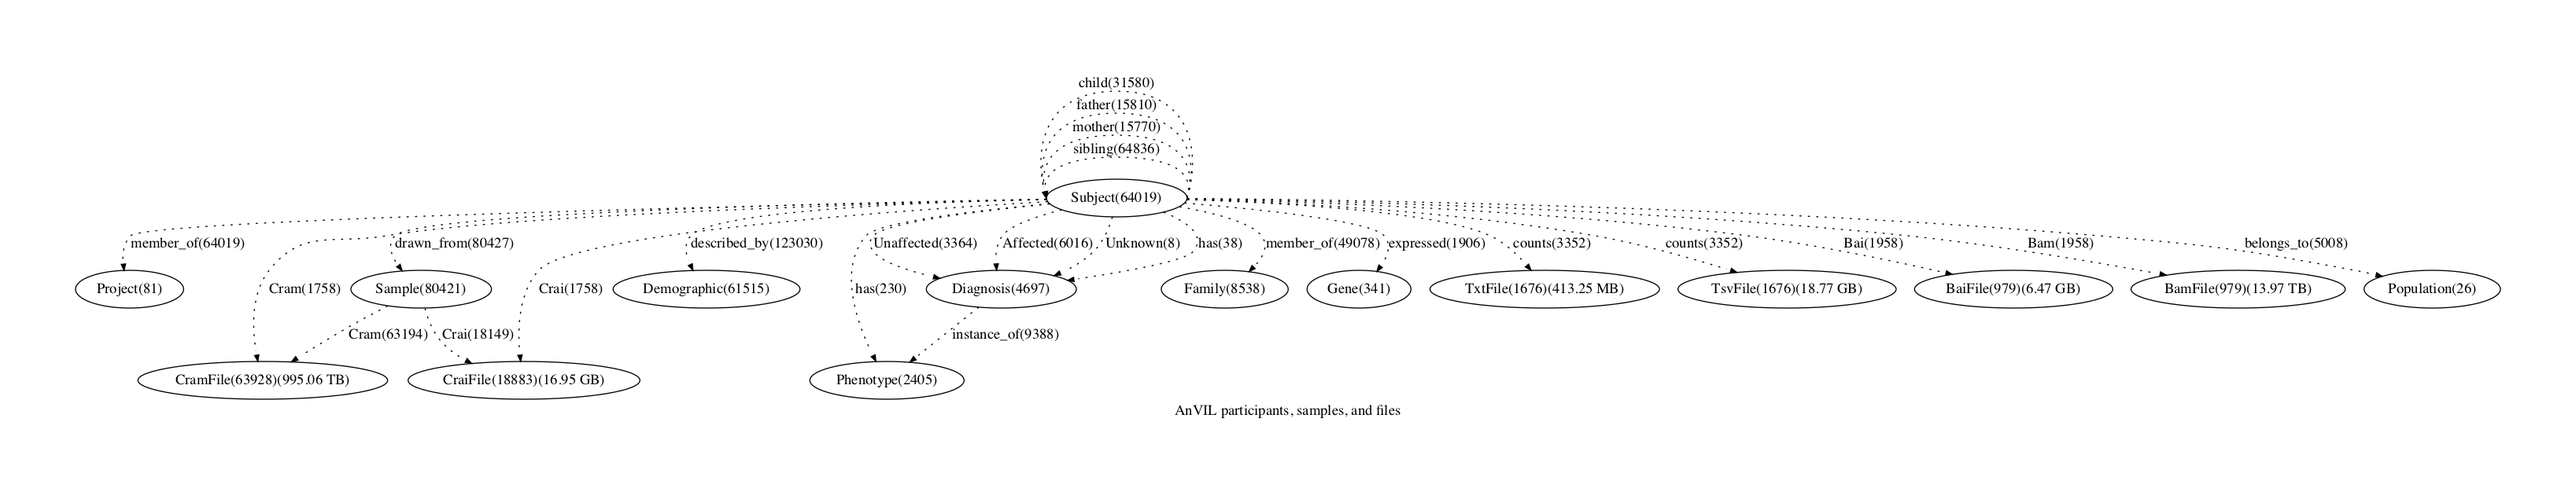
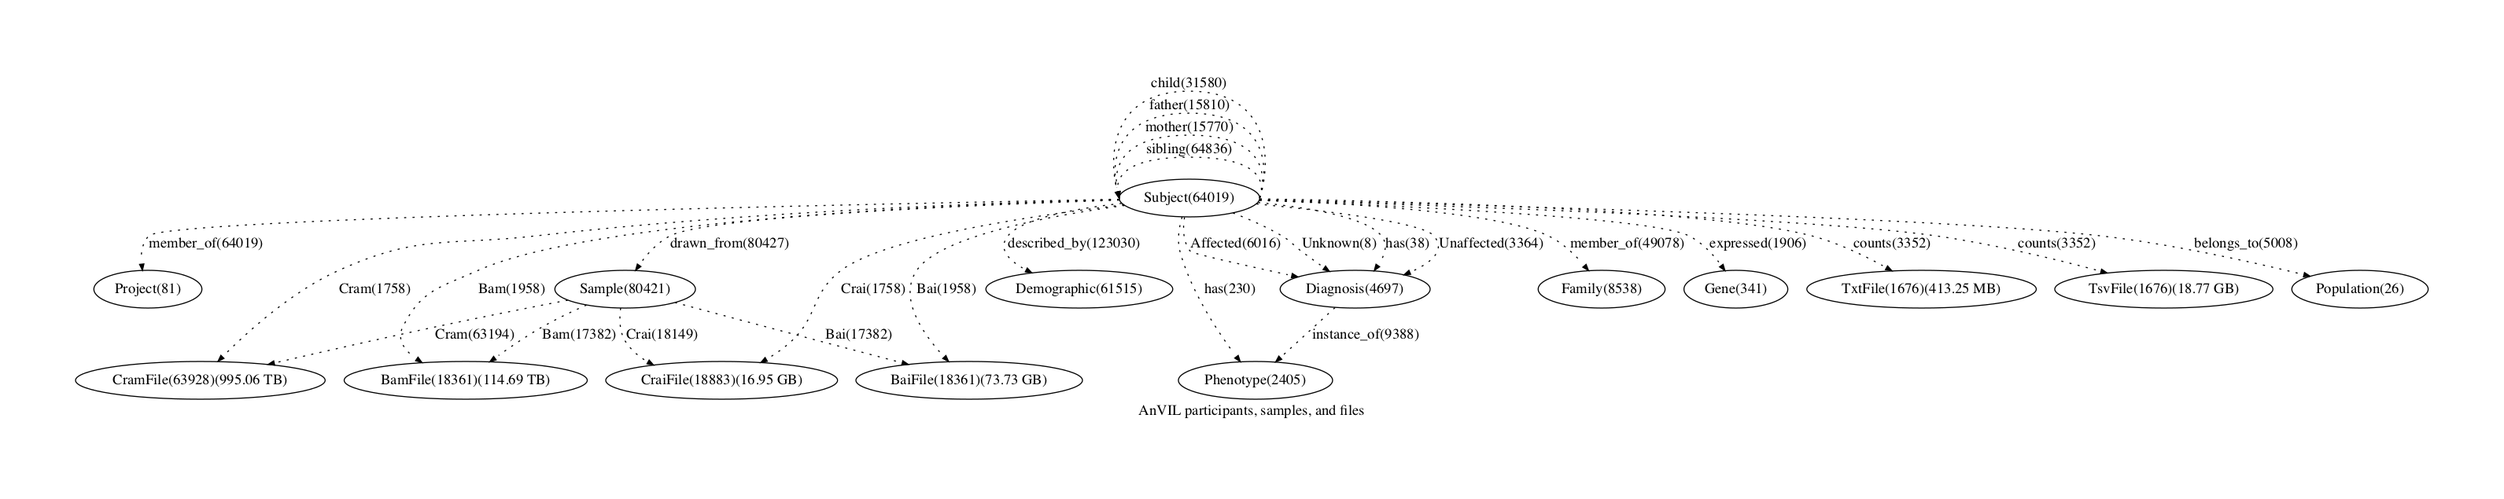
Fixes GTEx

diff --git a/pyAnVIL/anvil/transformers/__init__.py b/pyAnVIL/anvil/transformers/__init__.py
@@ -83,7 +83,7 @@ class BaseApp():
             if k not in ['cram', 'md5_path', 'crai_path', 'cram_path', 'bam', 'bam_path', 'ase_wasp_counts',
                          'ase_counts', 'cram_file', 'cram_index', 'wgs_cram_index', 'wgs_cram_file',
                          'wes_bam_index', 'wes_bam_file', 'ase_wasp_chrX_raw_counts', 'ase_chrX_raw_counts',
-                         'crai_or_bai_path', 'cram_or_bam_path']:
+                         'crai_or_bai_path', 'cram_or_bam_path', 'bam_file', 'bam_index']:
                 continue
 
             filename, file_type = self.file_type(v)

diff --git a/pyAnVIL/notebooks/figures/report.md b/pyAnVIL/notebooks/figures/report.md
@@ -1577,8 +1577,8 @@
     <tr>
       <th>GTEx</th>
       <th>AnVIL_GTEx_V8_hg38</th>
-      <td>979</td>
-      <td>979</td>
+      <td>18361</td>
+      <td>18361</td>
       <td>879</td>
       <td>879</td>
       <td>979</td>
@@ -1592,7 +1592,7 @@
       <td>979</td>
       <td>1676</td>
       <td>1676</td>
-      <td>56.84 TB</td>
+      <td>157.63 TB</td>
     </tr>
     <tr>
       <th>ThousandGenomes</th>
